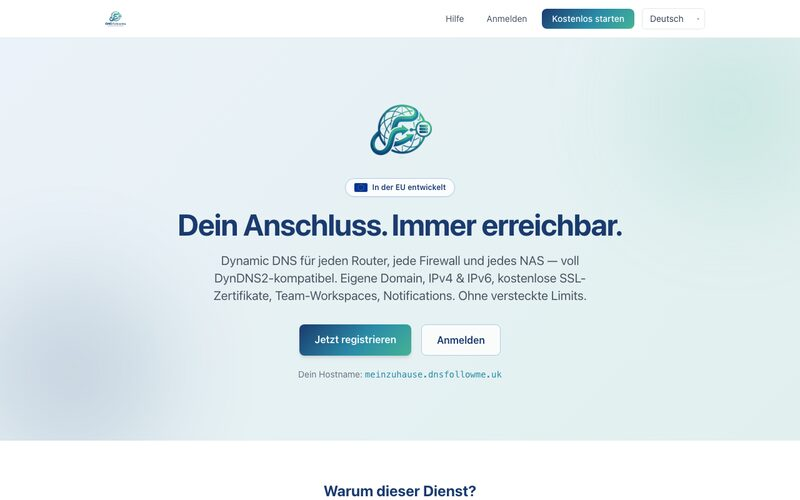
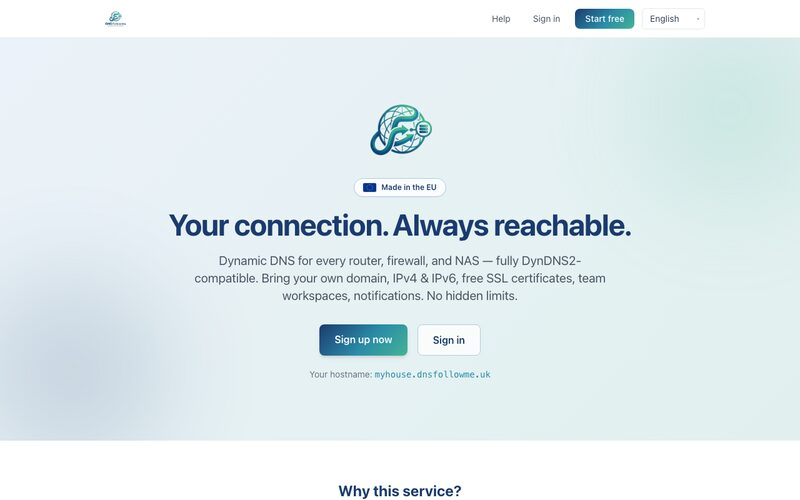
content: translate site to English (text, meta, project cards)
Also re-capture the DNS Beacon card screenshot in English to match.

diff --git a/index.html b/index.html
@@ -1,11 +1,11 @@
 <!doctype html>
-<html lang="de">
+<html lang="en">
 <head>
 <meta charset="utf-8">
 <meta name="viewport" content="width=device-width, initial-scale=1">
 <meta name="theme-color" content="#000000">
 <meta name="keywords" content="cloud, microsoft, intune, defender 365, defender, identity, entra, exchange, conditional access, mam, mdm, endpoint">
-<meta name="description" content="Matthias Hübner – Cloud Architect mit Fokus auf Microsoft 365, Intune, Defender, Entra und Exchange.">
+<meta name="description" content="Matthias Hübner – Cloud Architect focused on Microsoft 365, Intune, Defender, Entra and Exchange.">
 <title>Matthias Hübner - Cloud Architect - Microsoft</title>
 
 <!-- Favicon -->
@@ -14,13 +14,13 @@
 <!-- Open Graph / Social previews -->
 <meta property="og:type" content="website">
 <meta property="og:title" content="Matthias Hübner – Cloud Architect">
-<meta property="og:description" content="Cloud Architect mit Fokus auf Microsoft 365, Intune, Defender, Entra und Exchange.">
+<meta property="og:description" content="Cloud Architect focused on Microsoft 365, Intune, Defender, Entra and Exchange.">
 <meta property="og:url" content="https://matthiashuebner.com/">
 <meta property="og:site_name" content="Matthias Hübner">
-<meta property="og:locale" content="de_DE">
+<meta property="og:locale" content="en_US">
 <meta name="twitter:card" content="summary">
 <meta name="twitter:title" content="Matthias Hübner – Cloud Architect">
-<meta name="twitter:description" content="Cloud Architect mit Fokus auf Microsoft 365, Intune, Defender, Entra und Exchange.">
+<meta name="twitter:description" content="Cloud Architect focused on Microsoft 365, Intune, Defender, Entra and Exchange.">
 
 <link href="AboutPageAssets/styles/aboutPageStyle.css" rel="stylesheet" type="text/css">
 <link rel="preconnect" href="https://fonts.googleapis.com">
@@ -49,7 +49,7 @@
 
 <main class="mainContent">
   <section class="section2">
-    <h2 class="sectionTitle">Projekte</h2>
+    <h2 class="sectionTitle">Projects</h2>
     <hr class="sectionTitleRule2">
     <div class="section2Content">
       <div class="projectGrid">
@@ -62,9 +62,9 @@
             <h3 class="projectCardTitle">DNS Beacon</h3>
             <p class="projectCardTag">Dynamic DNS</p>
             <p class="projectCardText">
-              Dynamic DNS Service für Router, Firewalls und NAS – mit
-              DynDNS2-Kompatibilität, automatischen SSL-Zertifikaten und
-              Team-Funktionen.
+              Dynamic DNS service for routers, firewalls and NAS – with
+              DynDNS2 compatibility, automatic SSL certificates and
+              team features.
             </p>
             <a class="projectCardLink" href="https://dnsbeacon.com" target="_blank" rel="noopener" data-umami-event="DNS Beacon Click" data-umami-event-source="card">
               dnsbeacon.com
@@ -81,8 +81,8 @@
             <h3 class="projectCardTitle">Wrappify</h3>
             <p class="projectCardTag">Microsoft Intune</p>
             <p class="projectCardText">
-              Microsoft Intune Win32 Packaging – automatisiert. Verwandle jeden
-              Installer in eine deploy-fertige Intune-App.
+              Microsoft Intune Win32 packaging – automated. Turn any
+              installer into a deploy-ready Intune app.
             </p>
             <a class="projectCardLink" href="https://wrappify.net" target="_blank" rel="noopener" data-umami-event="Wrappify Click" data-umami-event-source="card">
               wrappify.net
@@ -99,9 +99,10 @@
             <h3 class="projectCardTitle">UEFI Cert Monitor</h3>
             <p class="projectCardTag">Secure Boot 2026</p>
             <p class="projectCardText">
-              Behält den Überblick über die ablaufenden UEFI Secure Boot
-              Zertifikate 2026 – erkennt pro Windows-Client, ob der 2023-Fix
-              greift, inklusive herstellerspezifischer Handlungsempfehlung.
+              Keeps track of the expiring UEFI Secure Boot certificates in
+              2026 – detects, per Windows client, whether the 2023 fix has
+              taken effect, including manufacturer-specific remediation
+              guidance.
             </p>
             <a class="projectCardLink" href="https://uefi.matthiashuebner.com" target="_blank" rel="noopener" data-umami-event="UEFI Cert Monitor Click" data-umami-event-source="card">
               uefi.matthiashuebner.com
